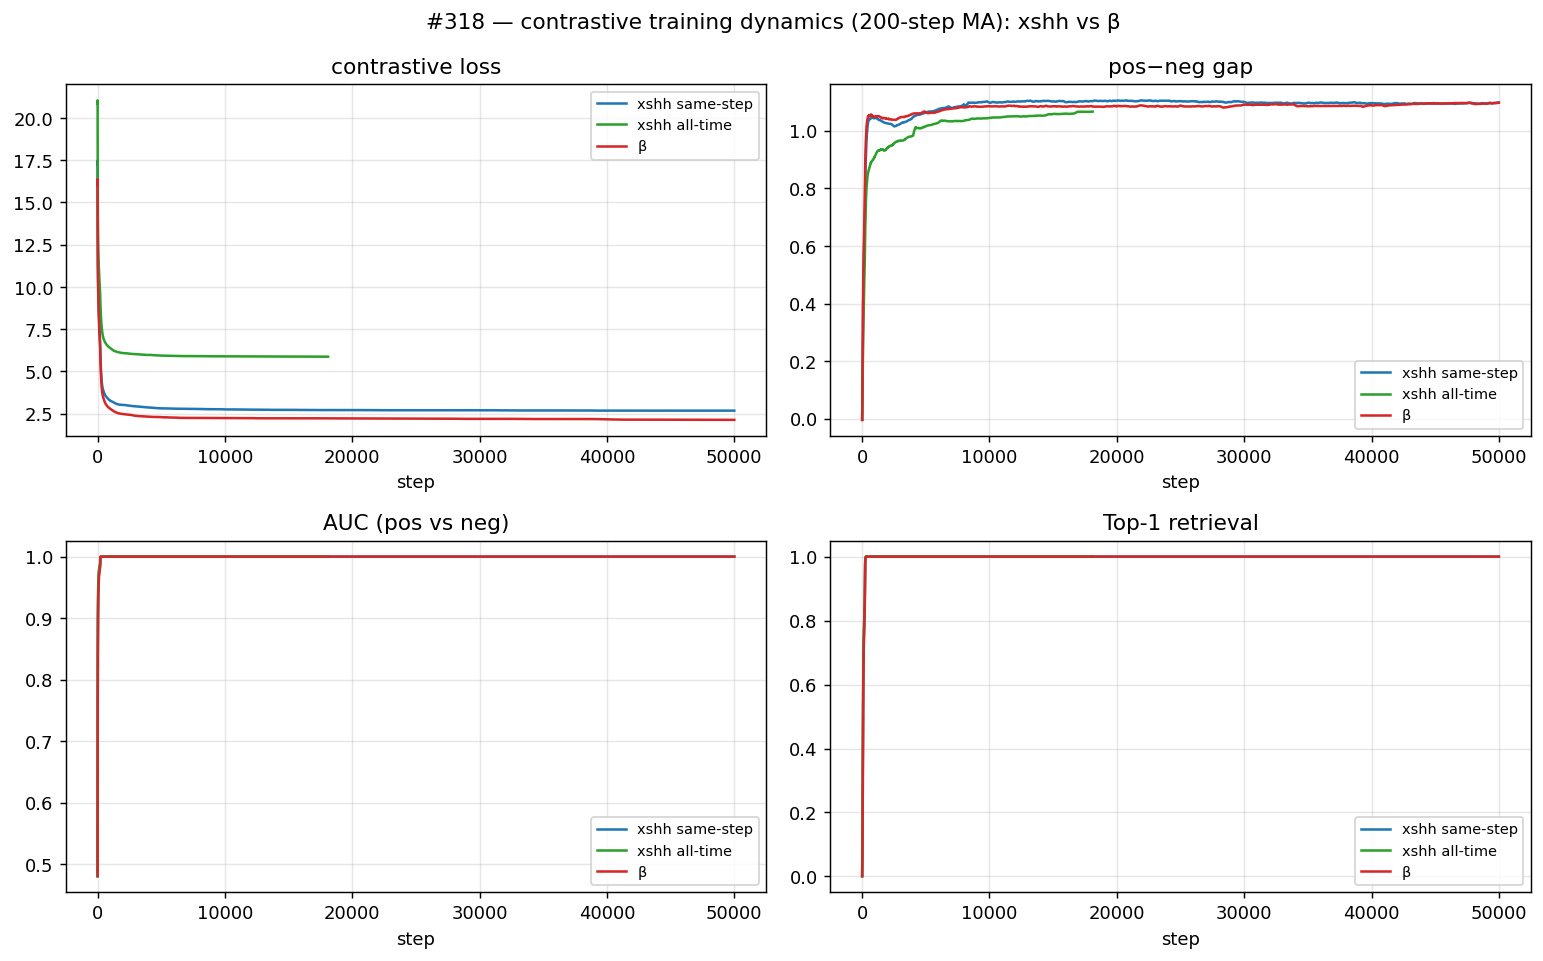
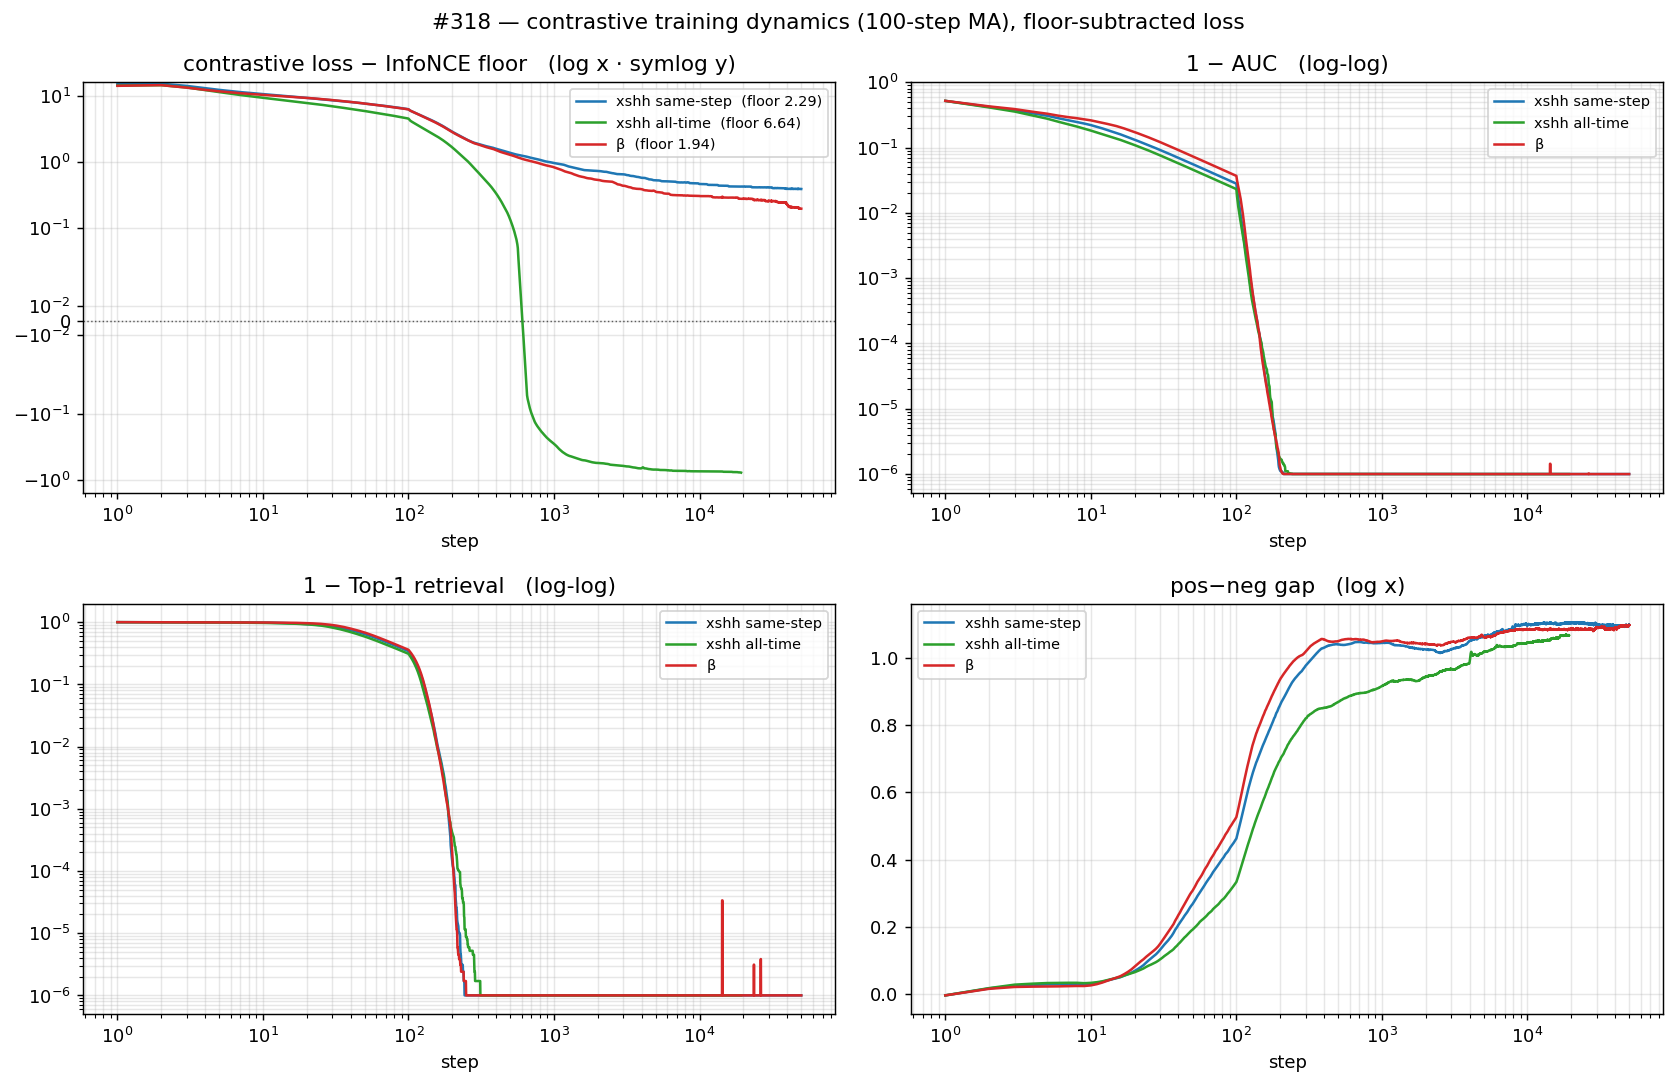
plot(#318): floor-subtracted contrastive loss, log-log training curves
Raw InfoNCE losses aren't comparable across arms: the floor log(1+N·e^-1/τ)
grows with the negative count N (β 131k, same-step 196k, all-time 16.8M →
floors 1.94/2.29/6.64). Subtract each arm's own floor; log-x, symlog-y
(so the all-time arm sitting below its uniformity floor still shows).
AUC/Top1 shown as 1−AUC / 1−Top1 (log-log).

Corrects my earlier 'same-step loss higher' read: of the +0.55 raw gap,
~0.35 is just the larger negative pool — floor-subtracted, β (+0.19) and
same-step (+0.38) converge close together. Grounded endpoints in RESULTS.

diff --git a/experiments/2026-05-23_xseries_hh/scripts/plots.py b/experiments/2026-05-23_xseries_hh/scripts/plots.py
@@ -17,10 +17,23 @@ Figures:
 import csv
 import math
 import os
+import sys
 
 import matplotlib
 matplotlib.use("Agg")
 import matplotlib.pyplot as plt
+
+# For the InfoNCE floor (re-bases the contrastive loss so arms with different
+# negative counts N are comparable). Training config: τ=0.10, B=T=256, C=1.
+sys.path.insert(0, "/home/jupyter/workspaces/contrastive-forecasting/.claude/worktrees/cross-series-hh")
+from src.loss import infonce_floor, _effective_negative_count
+
+TAU_TRAIN, B_TRAIN, T_TRAIN, C_TRAIN = 0.10, 256, 256, 1
+_SHAPE = {"xshh": "cosine_similarity_batch_full_hh_negs_xshh",
+          "allt": "cosine_similarity_batch_full_hh_negs_xshh_allt",
+          "beta": "cosine_similarity_batch_full_hh_negs"}
+FLOOR = {k: infonce_floor(TAU_TRAIN, _effective_negative_count(s, B_TRAIN, T_TRAIN, C_TRAIN))
+         for k, s in _SHAPE.items()}
 
 OUT = "/home/jupyter/workspaces/contrastive-forecasting/experiments/2026-05-23_xseries_hh"
 RES = f"{OUT}/results"
@@ -192,23 +205,51 @@ def _smooth(y, w=200):
 
 
 def plot_training_curves():
-    a = _load_curve(XSHH_CSV)
-    al = _load_curve(ALLT_CSV)
-    b = _load_curve(BETA_CSV)
-    if not a and not al and not b:
+    # (label, curve, colour, floor-key)
+    arms = [("xshh same-step", _load_curve(XSHH_CSV), C_XSHH, "xshh"),
+            ("xshh all-time",  _load_curve(ALLT_CSV), C_ALLT, "allt"),
+            ("β",              _load_curve(BETA_CSV), C_BETA, "beta")]
+    arms = [a for a in arms if a[1]]
+    if not arms:
         print("training_curves: no data yet — skip")
         return
-    panels = [("loss", "contrastive loss"), ("gap", "pos−neg gap"),
-              ("auc", "AUC (pos vs neg)"), ("top1", "Top-1 retrieval")]
-    fig, axes = plt.subplots(2, 2, figsize=(12, 7.5))
-    for ax, (key, title) in zip(axes.flat, panels):
-        for cols, c, lab in ((a, C_XSHH, "xshh same-step"),
-                             (al, C_ALLT, "xshh all-time"),
-                             (b, C_BETA, "β")):
-            if cols and key in cols and "step" in cols:
-                ax.plot(cols["step"], _smooth(cols[key]), color=c, lw=1.4, label=lab)
-        ax.set_title(title); ax.set_xlabel("step"); ax.grid(alpha=0.3); ax.legend(fontsize=8)
-    fig.suptitle("#318 — contrastive training dynamics (200-step MA): xshh vs β", fontsize=12)
+    fig, axes = plt.subplots(2, 2, figsize=(13, 8.5))
+
+    # Panel 1: contrastive loss MINUS each arm's InfoNCE floor. The floor
+    # log(1+N·e^(−1/τ)) grows with the negative count N, which differs ~128×
+    # across arms, so RAW losses are not comparable — subtracting each arm's
+    # own floor is. log-x; symlog-y so an arm sitting slightly BELOW its
+    # uniformity floor (cos⁻ net < 0, expected when N is huge) still shows.
+    ax = axes[0, 0]
+    for lab, cols, col, fk in arms:
+        if "loss" in cols and "step" in cols:
+            y = _smooth([v - FLOOR[fk] for v in cols["loss"]], 100)
+            ax.plot(cols["step"], y, color=col, lw=1.4, label=f"{lab}  (floor {FLOOR[fk]:.2f})")
+    ax.set_xscale("log"); ax.set_yscale("symlog", linthresh=0.05)
+    ax.axhline(0, color="k", ls=":", lw=0.8, alpha=0.6)
+    ax.set_title("contrastive loss − InfoNCE floor   (log x · symlog y)")
+    ax.set_xlabel("step"); ax.grid(alpha=0.3, which="both"); ax.legend(fontsize=8)
+
+    # Panels 2–3: retrieval error 1−AUC and 1−Top1 (→0), genuine log-log.
+    for ax, key, title in ((axes[0, 1], "auc", "1 − AUC"),
+                           (axes[1, 0], "top1", "1 − Top-1 retrieval")):
+        for lab, cols, col, _ in arms:
+            if key in cols and "step" in cols:
+                err = _smooth([max(1.0 - v, 1e-6) for v in cols[key]], 100)
+                ax.plot(cols["step"], err, color=col, lw=1.4, label=lab)
+        ax.set_xscale("log"); ax.set_yscale("log")
+        ax.set_title(f"{title}   (log-log)"); ax.set_xlabel("step")
+        ax.grid(alpha=0.3, which="both"); ax.legend(fontsize=8)
+
+    # Panel 4: pos−neg gap (bounded, saturates) — log-x, linear-y.
+    ax = axes[1, 1]
+    for lab, cols, col, _ in arms:
+        if "gap" in cols and "step" in cols:
+            ax.plot(cols["step"], _smooth(cols["gap"], 100), color=col, lw=1.4, label=lab)
+    ax.set_xscale("log"); ax.set_title("pos−neg gap   (log x)")
+    ax.set_xlabel("step"); ax.grid(alpha=0.3, which="both"); ax.legend(fontsize=8)
+
+    fig.suptitle("#318 — contrastive training dynamics (100-step MA), floor-subtracted loss", fontsize=12)
     fig.tight_layout(); fig.savefig(f"{PLOTS}/training_curves.png", dpi=130, bbox_inches="tight")
     print("training_curves.png written")
 

diff --git a/experiments/2026-05-23_xseries_hh/RESULTS.md b/experiments/2026-05-23_xseries_hh/RESULTS.md
@@ -163,8 +163,23 @@ e.g. same-frequency seasonal phase, on strongly seasonal domains.)_
 
 ### Training dynamics
 
-The two runs share every hyperparameter, so their contrastive curves isolate
-the effect of the new negative on the training task itself.
+All arms share every hyperparameter, so the curves isolate the loss change.
+**Raw losses are not comparable across arms**: the normalized-InfoNCE floor
+`log(1 + N·e^(−1/τ))` grows with the negative count N, which differs ~128×
+(β 131k, same-step 196k, all-time 16.8M → floors **1.94 / 2.29 / 6.64**). The
+loss panel therefore plots each arm's loss **minus its own floor** (log-x,
+symlog-y).
+
+- **β and same-step converge just *above* their floors** — excess **+0.19**
+  (β) vs **+0.38** (same-step) at 50k. So of the same-step arm's +0.55 *raw*
+  gap over β, ~0.35 is merely the larger negative pool; only ~0.19 is genuine
+  extra excess. The cross-series same-step negative barely perturbs the
+  contrastive task.
+- The **all-time** arm (still training) tracks *below* its uniformity floor
+  (excess **−0.78** at 19k): with 16.8M negatives the cos⁻≈0 reference is loose
+  (the negatives are net anti-aligned).
+- AUC and Top-1 retrieval (shown as 1−AUC / 1−Top1, log-log) saturate for all
+  arms within a few hundred steps.
 
 ![training curves](plots/training_curves.png)
 
